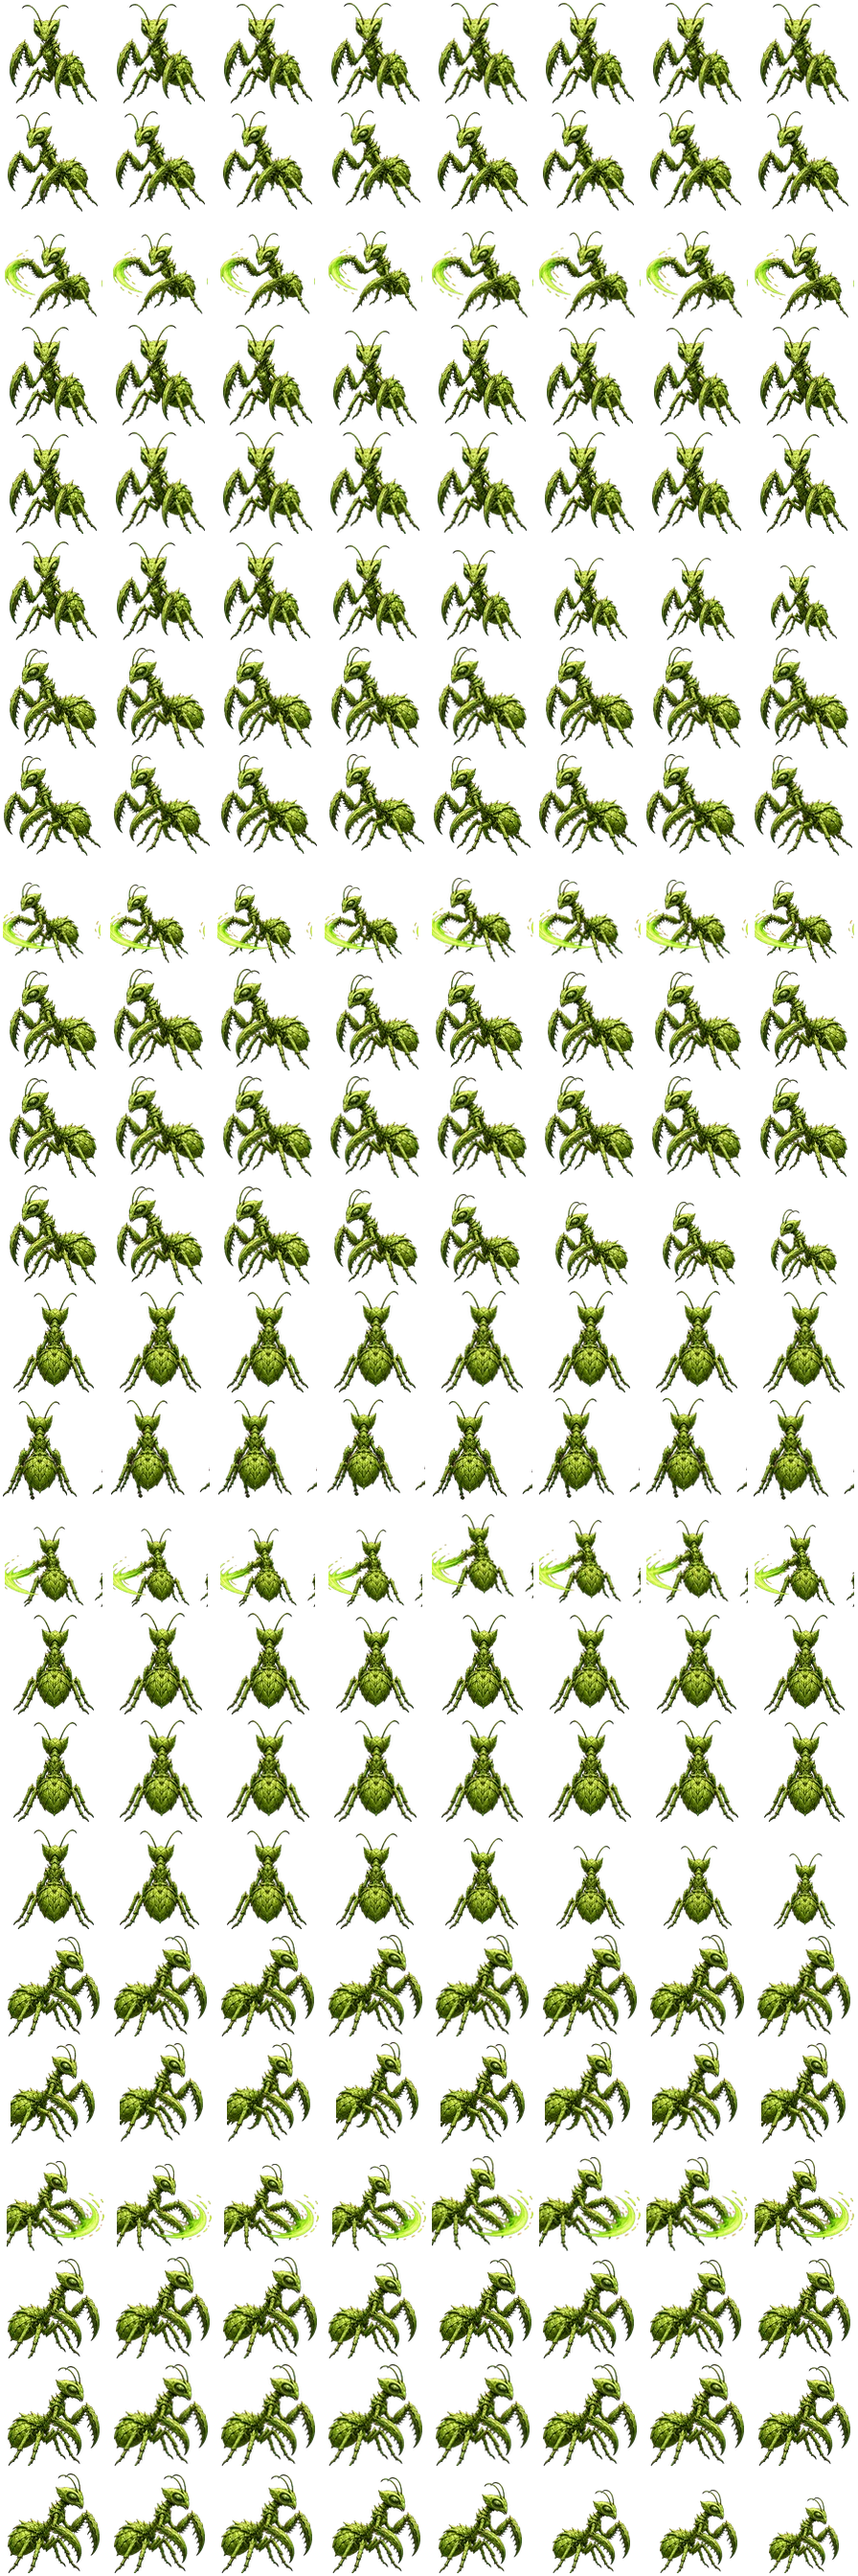
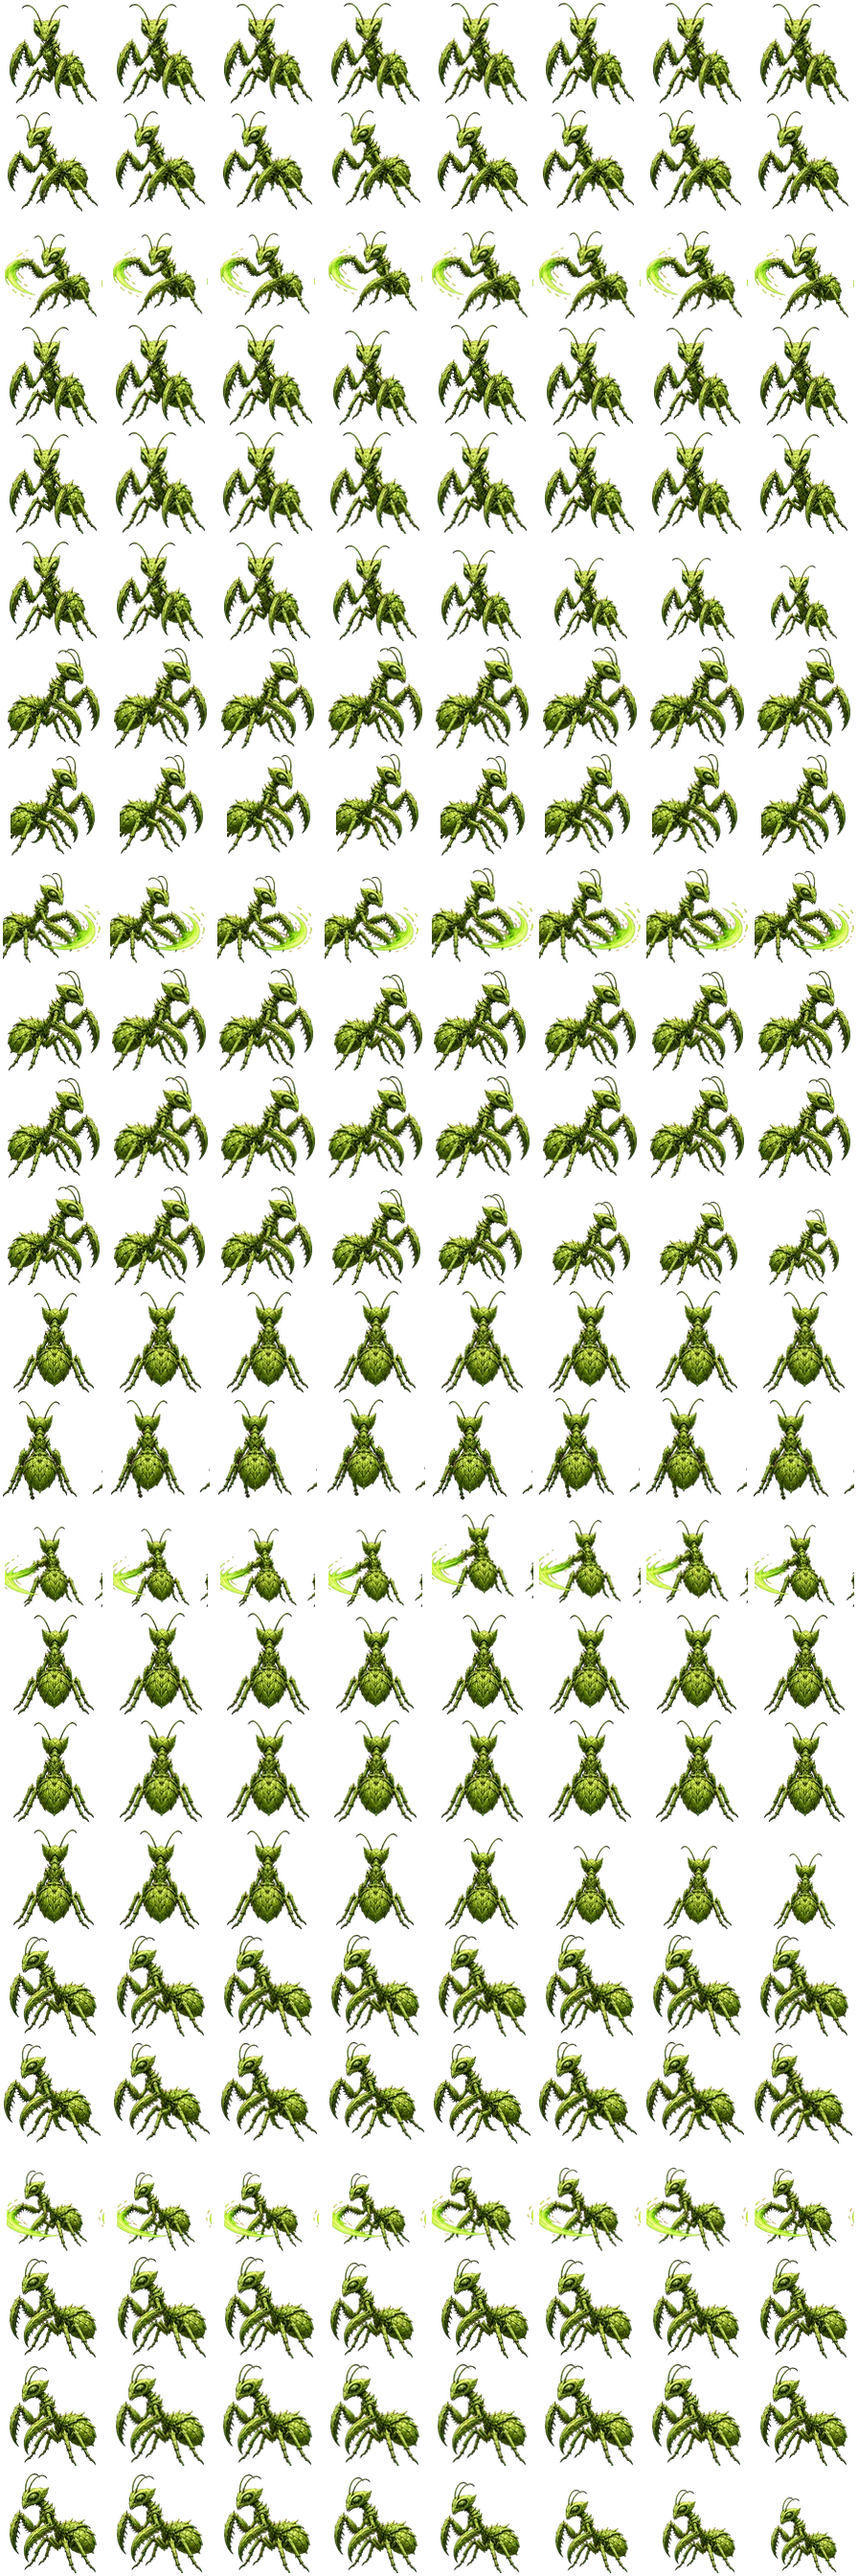
fix: complete chapter one boss directions

Changed region(s): [[0.0, 0.75, 1.0, 1.0], [0.0, 0.25, 1.0, 0.5]]

diff --git a/tactics.html b/tactics.html
@@ -79,6 +79,6 @@
   <div id="home-display-modal" class="deploy-modal" hidden><section class="deploy-dialog home-display-dialog" role="dialog" aria-modal="true" aria-labelledby="home-display-title"><div class="deploy-head"><div><p class="eyebrow">旗艦設定</p><h2 id="home-display-title">選擇機庫展示幻獸</h2></div><button class="close-deploy" data-close="home-display-modal" aria-label="關閉展示設定">×</button></div><p class="gacha-info">這五隻是首頁展示候選；更換展示不會影響你實際擁有或出戰的幻獸。</p><label class="home-display-mode"><input id="home-display-follow" type="checkbox"> 展示跟隨目前隊長</label><div id="home-display-grid" class="home-display-grid"></div></section></div>
   <div id="story-modal" class="deploy-modal story-modal" hidden><section class="deploy-dialog story-dialog" role="dialog" aria-modal="true" aria-labelledby="story-title"><div id="story-art" class="story-art"></div><div class="story-body"><p id="story-kicker" class="eyebrow"></p><p id="story-speaker" class="story-speaker"></p><h2 id="story-title"></h2><p id="story-copy"></p><button id="story-next" class="primary" type="button">繼續</button></div></section></div>
   <script>window.__consoleErrors=[];window.addEventListener('error',function(e){window.__consoleErrors.push(String(e.message||e.error));});window.addEventListener('unhandledrejection',function(e){window.__consoleErrors.push(String(e.reason));});</script>
-  <script src="js/data/pets.js"></script><script src="js/data/pets-lightdark.js?v=1"></script><script src="js/data/pets-pack.js?v=1"></script><script src="js/data/tactical-pets.js?v=8"></script><script src="js/data/tactical-enemies.js?v=5"></script><script src="js/data/map-terrain.js?v=1"></script><script src="js/data/tactical-content.js?v=11"></script><script src="js/data/story-content.js?v=3"></script><script src="js/data/animation-config.js?v=1"></script><script src="assets/animations/directional/manifest.js?v=2"></script><script src="js/core/TacticalProgression.js?v=12"></script><script src="js/core/TacticalAudio.js?v=2"></script><script src="js/tactics.js?v=61"></script>
+  <script src="js/data/pets.js"></script><script src="js/data/pets-lightdark.js?v=1"></script><script src="js/data/pets-pack.js?v=1"></script><script src="js/data/tactical-pets.js?v=8"></script><script src="js/data/tactical-enemies.js?v=5"></script><script src="js/data/map-terrain.js?v=1"></script><script src="js/data/tactical-content.js?v=11"></script><script src="js/data/story-content.js?v=3"></script><script src="js/data/animation-config.js?v=1"></script><script src="assets/animations/directional/manifest.js?v=3"></script><script src="js/core/TacticalProgression.js?v=12"></script><script src="js/core/TacticalAudio.js?v=2"></script><script src="js/tactics.js?v=62"></script>
 </body>
 </html>

diff --git a/assets/animations/directional/manifest.js b/assets/animations/directional/manifest.js
@@ -1444,13 +1444,13 @@ window.TACTICAL_MOTION_MANIFEST = {
       }
     },
     "sourceColumns": [
-      "derived-down",
-      "legacy-right",
-      "derived-up",
-      "legacy-left"
+      0,
+      1,
+      2,
+      3
     ],
-    "sourceType": "derived-from-approved-motion",
-    "source": "assets/animations/units/blightwood_sovereign-motion-sheet.webp",
+    "sourceType": "authored-four-direction",
+    "source": "assets/animations/directional/sources/blightwood_sovereign-four-direction-reference-v1-alpha.png",
     "evolutionSheets": {
       "1": "assets/animations/directional/blightwood_sovereign-motion-4dir-sheet.webp"
     }
@@ -10980,9 +10980,9 @@ window.TACTICAL_MOTION_MANIFEST = {
     },
     "sourceColumns": [
       0,
-      1,
+      3,
       2,
-      3
+      1
     ],
     "sourceType": "authored-four-direction",
     "source": "assets/animations/directional/sources/rotcap_rootling-four-direction-reference-v1-alpha.png",
@@ -13989,9 +13989,9 @@ window.TACTICAL_MOTION_MANIFEST = {
     },
     "sourceColumns": [
       0,
-      1,
+      3,
       2,
-      3
+      1
     ],
     "sourceType": "authored-four-direction",
     "source": "assets/animations/directional/sources/venom_mantis-four-direction-reference-v1-alpha.png",

diff --git a/js/tactics.js b/js/tactics.js
@@ -197,7 +197,7 @@
     var stage = Math.max(1, Math.min(3, Number(unit.evolution) || 1));
     var stagePortrait = unit.p.evolution[Math.min(stage, unit.p.evolution.length) - 1]?.portrait || '';
     var stageSuffix = stage > 1 && stagePortrait.indexOf('assets/pets/' + unit.id + '/evolution/stage_' + stage + '.png') === 0 ? '-stage_' + stage : '';
-    return '../assets/animations/directional/' + unit.id + stageSuffix + '-motion-4dir-sheet.webp?v=26';
+    return '../assets/animations/directional/' + unit.id + stageSuffix + '-motion-4dir-sheet.webp?v=27';
   }
   function motionManifestEntry(unit) { return (window.TACTICAL_MOTION_MANIFEST || {})[unit.id] || {}; }
   function animationSpec(unit, action, override) {

diff --git a/scripts/build-four-direction-motion.py b/scripts/build-four-direction-motion.py
@@ -57,7 +57,11 @@ SOURCE_ALREADY_RIGHT = {
 }
 # 這三張 AI 參考圖的側面欄位是依「角色看向畫面中央」構圖，
 # 實際內容與提示標籤相反，因此合圖時交換第 2、4 欄。
-SWAPPED_SIDE_UNITS = {"fire_lion", "fire_fox", "leaf_ear_rabbit"}
+# Some reference grids are laid out from the viewer's perspective rather than
+# the character's stated facing direction.  These units were verified in the
+# live battle: their visible side must be swapped so a rightward move/attack
+# points right on the board.
+SWAPPED_SIDE_UNITS = {"fire_lion", "fire_fox", "leaf_ear_rabbit", "rotcap_rootling", "venom_mantis"}
 
 
 def contain(image: Image.Image, scale: float = .93) -> Image.Image:
